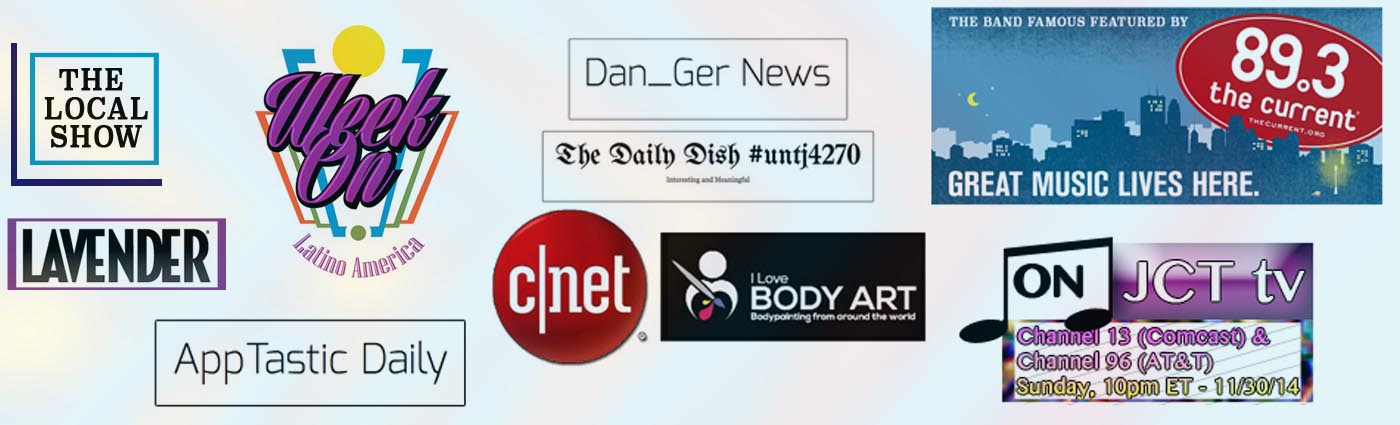
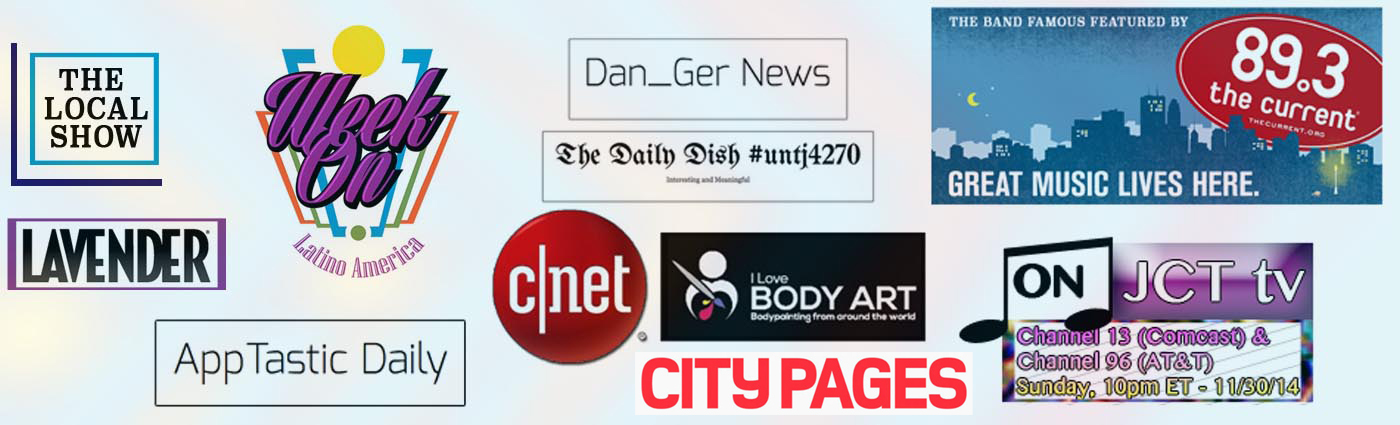
Everywhere

Changed region(s): [[0.4607, 0.8259, 0.7064, 0.9788]]

diff --git a/epk.html b/epk.html
@@ -95,9 +95,12 @@
     <div style="width: 80%; height: auto; background:white;">
       <br>
 
+      <!--
       <p style="text-shadow: none; color: black;">"Lazer Eyes" - a tribute to Prince and a single off our upcoming 2nd album <i>Awakening</i> - is available now. <br> This track is not for sale, but is free to stream exclusively on TBF Radio, along with a kid-friendly music video on YouTube.</p>
       <p style="text-shadow: none; color: black;">"Promises" - a single off our upcoming 2nd album <i>Awakening</i> - is available everywhere.</p>
       <p style="text-shadow: none; color: black;">Get our debut album <i>Last Words</i> FREE on the <a href="https://itunes.apple.com/us/app/the-band-famous/id879979539?mt=8" target="_blank">iPhone App Store</a> or <a href="https://play.google.com/store/apps/details?id=com.bandfamous.famous" target="_blank">Android Google Play</a>!</p>
+
+      -->
 
           <!--[if mso]>
         <td valign="top" width="600" style="width:600px;">
@@ -129,7 +132,8 @@
                 </tr>
                 <tr>
                   <td class="mcnTextContent" valign="top" style="padding: 9px 18px;color: #F2F2F2;font-family: Helvetica;font-size: 14px;font-weight: normal;text-align: center;mso-line-height-rule: exactly;-ms-text-size-adjust: 100%;-webkit-text-size-adjust: 100%;word-break: break-word;line-height: 150%;" width="546">
-                    <a href="radio.html" title="Check Out TBF Radio"><div style="text-align: left;"><p style="text-shadow:none; margin: 2px; color:white;">TBF is now&nbsp;streaming some never-before-heard "B-Tracks", songs which didn't make our debut album, or our 2nd album in the works. Head over to the Music tab where you may also enjoy songs by select artists featured in the Hall Of Fame, available for your free listening pleasure 24/7 - 365 days a year via&nbsp;TBF <em>Radio</em>.</p></div></a>
+                    <a href="radio.html" title="Check Out TBF Radio"><div style="text-align: left;"><p style="text-shadow:none; margin: 2px; color:white;">TBF is now&nbsp;streaming some never-before-heard "B-Tracks", songs which didn't make our debut album, or our 2nd album in the works. Head over to the Music tab where you may also enjoy songs by select artists featured in the Hall Of Fame, available for your free listening pleasure 24/7 - 365 days a year via&nbsp;TBF <em>Radio</em>.<br>
+                    We are not a label. We are musicians who share musicians we like because we care. We have their permission to feature and promote them indefintely on our own platform. We also have produced and showcased  and perform benefit shows with select artists in the Hall Of Fame.</p></div></a>
 
                 </td>
               </tr>
@@ -146,6 +150,16 @@
                   <table border="0" cellpadding="0" cellspacing="0" width="100%" class="templateContainer" style="border-collapse: collapse;mso-table-lspace: 0pt;mso-table-rspace: 0pt;-ms-text-size-adjust: 100%;-webkit-text-size-adjust: 100%;max-width: 800px !important;">
                     <tbody><tr>
                         <td valign="top" style="mso-line-height-rule: exactly;-ms-text-size-adjust: 100%;-webkit-text-size-adjust: 100%;">
+
+                                            
+                        <p style="text-shadow:none;">Check out the latest self-produced music video by The Band Famous, "Emotional Scatter", premiered by City Pages Music:</p>
+
+                        <a href="http://www.citypages.com/music/gnome-butts-isolation-rituals-and-tijuana-drug-deals-in-this-weeks-top-5-mn-music-videos/563566641" title="Check it out!" class="" target="_blank" style="mso-line-height-rule: exactly;-ms-text-size-adjust: 100%;-webkit-text-size-adjust: 100%;">
+                                  
+
+                        <img alt="Emotional Scatter" src="img/maxresdefaultEmotionalScatter.jpg" width="100%" style="max-width: 944px;border: 0;height: auto;outline: none;text-decoration: none;-ms-interpolation-mode: bicubic;vertical-align: bottom;" class="mcnImage">
+                        </a>
+                          
                         <!--[if gte mso 9]>
                         <table align="center" border="0" cellspacing="0" cellpadding="0" width="600" style="width:600px;">
                         <tr>
@@ -313,44 +327,84 @@ Shop TBF!</p>
     <p style="text-align: center;"><span style="font-style: italic; vertical-align: baseline; white-space: pre-wrap; font-size:20px;">&ldquo;The more I read, the more surprised I was&hellip; They came together a couple of years ago in MN, they were all here in MN, and they all play music, they all make art, they also are all software developers&hellip; &nbsp;and actually some of the music from that initial jam session went on their debut EP &lsquo;Last Words&rsquo; which was released - wait for it - not on vinyl or via iTunes or any of the conventional ways of releasing music, but via an app - because they&rsquo;re all software developers, right? They made an interactive app by which they released their album&hellip;..It&rsquo;s dreamy, it&rsquo;s spacey&hellip;. I think people&hellip; will find a lot to enjoy, a lot of familiar, and ambient sounds&hellip; the whole thing is improvised by the way, all of their music to date has been entirely improvised&hellip;&rdquo; </span></p>
     <p style="text-align: center;"><span style="vertical-align: baseline; white-space: pre-wrap;">&nbsp;</span></p>
     <p style="text-align: center;"><span style="vertical-align: baseline; white-space: pre-wrap;"><i>Awakening</i></span><span style="vertical-align: baseline; white-space: pre-wrap;"> is their most focused and steadfast material yet!</span></p>
-<!-- Lazer Eyes -->
+    <br>
+    <!-- Jerard Fagerberg, City Pages Local Frames -->
+
+
+    <p style="text-align: center;"><span style="font-weight: bold; vertical-align: baseline; white-space: pre-wrap;">Writer Jerard Fagerberg of City Pages, says:</span></p>
+    <br>
+    <p style="text-align: center;"><span style="font-style: italic; vertical-align: baseline; white-space: pre-wrap; font-size:20px;"><b>The Band Famous – “Emotional Scatter” (PREMIERE)</b><br>&ldquo;Self-produced trip-hop group the Band Famous exist to uplift you, even if they sound a bit wacky when they do. They may not be self-actualized enough to dispense good advice, but their new single “Emotional Scatter” tries, dammit. Directed by TBF members Norell and Zander, the video tries to play motivational speaker, but when the band mixes in goofy lyrics and a mooning gnome toy, it’s hard to take them totally seriously. Which might be the point: Stop taking yourself so seriously and enjoy the jam. TBF will be performing their new record Awakening in full on November 30. Follow them on social media to get the deets on the location and the streaming info.</span>
+    <p style="text-align: center;"><span style="vertical-align: baseline; white-space: pre-wrap;">&nbsp;</span></p>
+    <p style="text-align: center;"><span style="vertical-align: baseline; white-space: pre-wrap;"></span><span style="vertical-align: baseline; white-space: pre-wrap;"></span></p>
+
+
+    <!-- Buy "Emotional Scatter" on iTunes, Google Play, and Amazon -->
+
+    <p style="font-size: 17px; width: 70%; margin-top:10px; text-shadow: none; color: black;">Purchase or Stream TBF's Single "Emotional Scatter", from the upcoming 2nd album, <i>Awakening</i>.</p>
+    <br>
+
+    <span><a href="https://www.youtube.com/watch?v=ZhRKBL8oKJ4" target="_blank" title="Check out the music video self-directed and produced by The Band Famous, 'Emotional Scatter'"><img src="img/Emotional Scatter.jpg" style="max-height: 120px; max-width:120px; width: 10%; vertical-align: center; margin-top: -20px; margin-bottom: -20px;" alt="Listen to the new single by The Band Famous, 'Emotional Scatter', now playing on TBF Radio."/>:</a></span>
+    <!-- Buy "Emotional Scatter" on iTunes, Google Play, and Amazon -->
+         
+             
+                    
+    <!--<span><a href="radio.html" target="_blank" title="Listen to Emotional Scatter on TBF Radio for free!"><img src="img/tbfradio.png" style="max-height: 93px; width: 6.5%; vertical-align: center; margin-top: -20px; margin-bottom: -20px; box-shadow: none;" alt="Listen to Emotional Scatter on TBF Radio for free!"/></a></span>-->
+    <span><a href="https://music.apple.com/us/album/emotional-scatter-single/1482306594" title="TBF's 'Emotional Scatter' Available on iTunes Apple Music!" target="_blank"><img src="img/shop/apple-music.png" style="max-height: 120px; max-width:120px; width: 10%; vertical-align: center; margin-top: -70px; margin-bottom: -20px;" alt="Buy The Band Famous new single 'Emotional Scatter' on iTunes Apple Music today!"/></a></span>
+    <span><a href="https://www.shazam.com/track/498779585/emotional-scatter" title="TBF's 'Emotional Scatter' now on Shazam!"><img src="img/shop/shazam.png" style="max-height: 120px; max-width:120px; width: 10%; margin-top: -20px; vertical-align: center; margin-bottom: -20px;" alt="Listen to The Band Famous new single 'Emotional Scatter' on Shazam today!"/></a></span>
+    <span><a href="https://open.spotify.com/album/08YnxrBVS04YYpJQ7cqKHn"  title="TBF's Emotional Scatter' Coming Soon to Spotify!" target="_blank"><img src="img/shop/spotify.png" style="max-height: 120px; max-width:120px; width: 10%;   margin-top: -20px; vertical-align: center; margin-bottom: -20px;" alt="Listen to The Band Famous new single 'Emotional Scatter' on Spotify today!"/></a></span>
+    <span><a href="https://www.amazon.com/dp/B07Z2VSW5J/ref=cm_sw_r_tw_dp_U_x_f8rQDb2H3JQRY"  title="TBF's 'Emotional Scatter' Available on Amazon!" target="_blank"><img src="img/shop/amazon.png" style="max-height: 108px; max-width: 108px; width: 9%; margin-top: -70px; vertical-align: center; margin-bottom: -17px;" alt="Buy The Band Famous new single 'Emotional Scatter' on Amazon today!"/></a></span>
+    <span><a href="https://play.google.com/music/m/Tcvllr43kdkwda2iccp2rki3bsi?t=Emotional_Scatter_-_The_Band_Famous"  title="TBF's 'Emotional Scatter' on Google Play!" target="_blank"><img src="img/shop/google-play.png" style="max-height: 108px; max-width: 108px; width: 9%;  margin-top: -15px; vertical-align: center; margin-bottom: -16px;" alt="Buy The Band Famous new single 'Emotional Scatter' on Google Play today!"/></a></span>
+    <span><a href="https://youtu.be/ZhRKBL8oKJ4" title="View the official music video for TBF's 'Emotional Scatter' on YouTube - don't forget to like, comment, and subscribe!" target="_blank"><img src="img/shop/youtube.png" style="max-height: 110px; max-width: 110px; width: 10%;  margin-top: -20px; vertical-align: center; margin-bottom: -20px;" alt="Watch the Official Music Video and Listen to The Band Famous new single 'Emotional Scatter' on YouTube today!"/></a></span>
+    <br>
+    <br>
+    <center><img src="img/events/unity.png" alt="Gratitude" style="width: 90%; min-width: 250px; height: auto; vertical-align: center; margin-top: 4px;"/></center>
+
+
+    <!-- Lazer Eyes -->
         <p style="text-align: center;"><span style="vertical-align: baseline; white-space: pre-wrap;"><span style="vertical-align: baseline; white-space: pre-wrap;">TBF released &ldquo;Lazer Eyes&rdquo; free as a tribute to musical inspiration and legend, Prince Rogers Nelson on his birthday, June 7th, 2017. Now available from </span><em>Awakening,</em><span style="text-align: start; white-space: normal;">&nbsp;<br><br>&ldquo;Lazer Eyes&rdquo; is out now:</span></span></p>
 
     <!-- Listen to "Lazer Eyes" on TBF Radio and on our YouTube  -->
       <p style="font-size: 22px; width: 70%; margin-top:10px; text-shadow: none; color: white; margin-bottom:-15px;">Listen to TBF's Single <i>Lazer Eyes</i> Now!</p>
+
+      <span><a href="https://www.youtube.com/watch?v=4Yng26YzsrA" target="_blank" title="Check out the music video self-directed and produced by The Band Famous, 'Lazer Eyes'"><img src="img/LazerEyes.jpg" style="max-height: 120px; max-width:120px; width: 10%; vertical-align: center; margin-top: -20px; margin-bottom: -20px;" alt="Check out 'Lazer Eyes'"/>:</a></span>
       <span><a href="radio.html" target="_blank" title="Listen to TBF's 'Lazer Eyes' on TBF Radio"><img src="img/tbfradio.png" style="max-height: 110px; width: 10%; vertical-align: center; margin-top: -70px; margin-bottom: -20px;" alt="Listen to The Band Famous new single 'Lazer Eyes' on TBF Radio today!"/></a></span>
       <span><a href="https://youtu.be/4Yng26YzsrA" target="_blank" title="Listen to TBF's 'Lazer Eyes' on YouTube - don't forget to like, comment, and subscribe!"><img src="img/shop/youtube.png" style="max-height: 110px; width: 10%;  margin-top: -20px; vertical-align: center; margin-bottom: -20px;" alt="Listen to The Band Famous new single 'Lazer Eyes' on YouTube today!"/></a></span>
 
       <br>
       <br>
+      <center><img src="img/events/unity.png" alt="Gratitude" style="width: 90%; min-width: 250px; height: auto; vertical-align: center; margin-top: 4px;"/></center>
 
     <p style="text-align: center;"><span style="vertical-align: baseline; white-space: pre-wrap;"><span style="vertical-align: baseline; white-space: pre-wrap;">TBF&rsquo;s first official commercial release, from their upcoming 2nd album&nbsp;</span><em>Awakening,</em> <span style="text-align: start; white-space: normal;">&nbsp;<br><br>&ldquo;Promises&rdquo; - please be advised the music video for "Promises" is intended for mature audiences - is out now:</span></span></p>
     <br>
     <!-- Buy "Promises" on iTunes, Google Play, and Amazon -->
       <p style="font-size: 22px; width: 70%; margin-top:10px; text-shadow: none; color: white; margin-bottom:-15px;">Buy TBF's Single <i>Promises</i> Now!</p>
 
-  
+        <span><a href="https://www.youtube.com/watch?v=1s_RU05AqjA" target="_blank" title="Check out the music video self-directed and produced by The Band Famous, 'Promises' (Disclaimer: NSFW)"><img src="img/promises.jpg" style="max-height: 120px; max-width:120px; width: 10%; vertical-align: center; margin-top: -20px; margin-bottom: -20px;" alt="Check out 'Promises' (Disclaimer: NSFW)"/>:</a></span>
         <span><a href="https://itunes.apple.com/us/album/promises-single/id1129163577" target="_blank" title="Buy TBF's 'Promises' on iTunes Apple Music!"><img src="img/shop/apple-music.png" style="max-height: 120px; width: 10%; vertical-align: center; margin-top: -70px; margin-bottom: -20px;" alt="Buy The Band Famous new single 'Promises' on iTunes Apple Music today!"/></a></span>
-        <span><a href="http://www.shazam.com/track/322767260/promises#referrer=shz.am" target="_blank" title="Listen to TBF's 'Promises' on Shazam!"><img src="img/shop/shazam.png" style="max-height: 120px; width: 10%; margin-top: -20px; vertical-align: center; margin-bottom: -20px;" alt="Listen to The Band Famous new single 'Promises' on Shazam today!"/></a></span>
+        <span><a href="hhttp://www.shazam.com/track/322767260/promises#referrer=shz.am" target="_blank" title="Listen to TBF's 'Promises' on Shazam!"><img src="img/shop/shazam.png" style="max-height: 120px; width: 10%; margin-top: -20px; vertical-align: center; margin-bottom: -20px;" alt="Listen to The Band Famous new single 'Promises' on Shazam today!"/></a></span>
         <span><a href="https://play.spotify.com/artist/4Rjo7MM8sHnXPY5DyVTYiZ?play=true&utm_source=open.spotify.com&utm_medium=open" target="_blank" title="Listen to TBF's 'Promises' on Spotify!"><img src="img/shop/spotify.png" style="max-height: 120px; width: 10%;   margin-top: -20px; vertical-align: center; margin-bottom: -20px;" alt="Listen to The Band Famous new single 'Promises' on Spotify today!"/></a></span>
         <span><a href="https://www.amazon.com/Promises/dp/B01HTQ4UP8/ref=sr_1_3?ie=UTF8&qid=1467681013&sr=8-3&keywords=the+band+famous+promises" target="_blank" title="Buy TBF's 'Promises' on Amazon!"><img src="img/shop/amazon.png" style="max-height: 110px; width: 9%; margin-top: -70px; vertical-align: center; margin-bottom: -17px;" alt="Buy The Band Famous new single 'Promises' on Amazon today!"/></a></span>
         <span><a href="https://play.google.com/store/music/album?id=Bwbcxviuja4jvis2455woka46sa" target="_blank" title="Buy TBF's 'Promises' on Google Play!"><img src="img/shop/google-play.png" style="max-height: 110px; width: 9%;  margin-top: -15px; vertical-align: center; margin-bottom: -16px;" alt="Buy The Band Famous new single 'Promises' on Google Play today!"/></a></span>
         <span><a href="https://www.youtube.com/watch?v=1s_RU05AqjA" target="_blank" title="Listen to TBF's 'Promises' on YouTube - don't forget to like, comment, and subscribe!"><img src="img/shop/youtube.png" style="max-height: 110px; width: 10%;  margin-top: -20px; vertical-align: center; margin-bottom: -20px;" alt="Listen to The Band Famous new single 'Promises' on YouTube today!"/></a></span>
         <br>
         <br>
-
-      <br>
   </article>
+    <p><iframe width="80%" height="315" src="https://www.youtube-nocookie.com/embed/ZhRKBL8oKJ4" frameborder="0" allowfullscreen></iframe></p>
     <p><iframe width="80%" height="315" src="https://www.youtube-nocookie.com/embed/4Yng26YzsrA" frameborder="0" allowfullscreen></iframe></p>
-    <p><iframe frameborder="0" height="315" src="https://www.youtube.com/embed/1s_RU05AqjA" width="80%"></iframe></p>
-    <p><iframe frameborder="0" height="315" src="https://www.youtube.com/embed/4iVrlY-ap98" width="80%"></iframe></p>
+    <p><iframe frameborder="0" height="315" src="https://www.youtube-nocookie.com/embed/1s_RU05AqjA" width="80%"></iframe></p>
+    <p><iframe frameborder="0" height="315" src="https://www.youtube-nocookie.com/embed/4iVrlY-ap98" width="80%"></iframe></p>
     <p style="line-height: 19.6px;"><span style="line-height: 1.4;"><iframe frameborder="no" width="80%" height="385" scrolling="no" src="https://w.soundcloud.com/player/?url=https%3A//api.soundcloud.com/playlists/134366596&amp;color=ff5500&amp;auto_play=false&amp;hide_related=false&amp;show_comments=true&amp;show_user=true&amp;show_reposts=false" width="100%"></iframe></span></p>
 
     <article id="epk">
+      <center><img src="img/press/press.jpg" style="width: 80%; height:auto; margin-top: -20px; margin-bottom: 20px; box-shadow: 8px 8px 5px #888888;"/></center>
 
-    <div class="page_object_press_item" style=" margin: 0px; padding: 0px 0px 20px; border: 0px; outline: 0px; font-size: 14px; vertical-align: baseline; color: #333333; font-family: Roboto, Helvetica, Arial, sans-serif; line-height: 18px; background: transparent;">
-    <p><span style="background-color: transparent; font-weight: bold;">&ldquo;&hellip; you give a more intimate experience to the fans&rdquo;</span></p>
-    <div class="press_item_author" style="margin: 0px; padding: 0px 0px 0px 20px; border: 0px; outline: 0px; vertical-align: baseline; font-style: italic; background: transparent;"><a href="http://www.appmasters.co/the-band-famous/" target="_blank" style="margin: 0px; padding: 0px; vertical-align: baseline; color: #2c9ce9; text-decoration: none; cursor: pointer; background: transparent;">Steve Young, Lakshmi Parvathy - App Masters</a></div>
+   <div class="page_object_press_item" style=" margin: 7px; padding: 0px 0px 20px; border: 0px; outline: 0px; font-size: 14px; vertical-align: baseline; color: #333333; font-family: Roboto, Helvetica, Arial, sans-serif; line-height: 18px; background: transparent;">
+    <p style="margin: 0px; padding: 0px; border: 0px; outline: 0px; vertical-align: baseline; font-weight: bold; background: transparent;">&ldquo;Self-produced trip-hop group the Band Famous exist to uplift you, even if they sound a bit wacky when they do. They may not be self-actualized enough to dispense good advice, but their new single “Emotional Scatter” tries, dammit. Directed by TBF members Norell and Zander, the video tries to play motivational speaker, but when the band mixes in goofy lyrics and a mooning gnome toy, it’s hard to take them totally seriously. Which might be the point: Stop taking yourself so seriously and enjoy the jam.&rdquo;</p>
+    <div class="press_item_author" style="margin: 7px; padding: 0px 0px 0px 20px; border: 0px; outline: 0px; vertical-align: baseline; font-style: italic; background: transparent;"><a href="http://www.citypages.com/music/gnome-butts-isolation-rituals-and-tijuana-drug-deals-in-this-weeks-top-5-mn-music-videos/563566641" target="_blank" style="margin: 7px; padding: 0px; vertical-align: baseline; color: #2c9ce9; text-decoration: none; cursor: pointer; background: transparent;">Jerard Fagerberg - City Pages</a></div>
+    <br>
+    <div class="page_object_press_item" style=" margin: 7px; padding: 0px 0px 20px; border: 0px; outline: 0px; font-size: 14px; vertical-align: baseline; color: #333333; font-family: Roboto, Helvetica, Arial, sans-serif; line-height: 18px; background: transparent;">
+    <p style="margin: 0px; padding: 0px; border: 0px; outline: 0px; vertical-align: baseline; font-weight: bold; background: transparent;">&ldquo;&hellip; you give a more intimate experience to the fans&rdquo;</p>
+    <div class="press_item_author" style="margin: 7px; padding: 0px 0px 0px 20px; border: 0px; outline: 0px; vertical-align: baseline; font-style: italic; background: transparent;"><a href="http://www.appmasters.co/the-band-famous/" target="_blank" style="margin: 0px; padding: 0px; vertical-align: baseline; color: #2c9ce9; text-decoration: none; cursor: pointer; background: transparent;">Steve Young, Lakshmi Parvathy - App Masters</a></div>
     </div>
     <div class="page_object_press_item" style="margin: 7px; padding: 0px 0px 20px; border: 0px; outline: 0px; font-size: 14px; vertical-align: baseline; color: #333333; font-family: Roboto, Helvetica, Arial, sans-serif; line-height: 18px; background: transparent;">
     <p style="margin: 0px; padding: 0px; border: 0px; outline: 0px; vertical-align: baseline; font-weight: bold; background: transparent;">&ldquo;Their art is now gaining traction nationwide&hellip;This spring, TBF performed on the Tom Green Show and other L.A.-based podcasts, following the fall Android release of their album, Last Words. Their second album, Awakening, is being released soon.&rdquo;</p>

diff --git a/bio.html b/bio.html
@@ -190,9 +190,10 @@
                     <tbody><tr>
                         <td valign="top" style="mso-line-height-rule: exactly;-ms-text-size-adjust: 100%;-webkit-text-size-adjust: 100%;">
 
-                        <p style="text-shadow:none;">Check out the latest self-produced music video by The Band Famous, "Emotional Scatter":</p>
 
-                        <a href="https://www.youtube.com/watch?v=ZhRKBL8oKJ4" title="Watch Now!" class="" target="_blank" style="mso-line-height-rule: exactly;-ms-text-size-adjust: 100%;-webkit-text-size-adjust: 100%;">
+                        <p style="text-shadow:none;">Check out the latest self-produced music video by The Band Famous, "Emotional Scatter", premiered by City Pages Music:</p>
+
+                        <a href="http://www.citypages.com/music/gnome-butts-isolation-rituals-and-tijuana-drug-deals-in-this-weeks-top-5-mn-music-videos/563566641" title="Check it out!" class="" target="_blank" style="mso-line-height-rule: exactly;-ms-text-size-adjust: 100%;-webkit-text-size-adjust: 100%;">
                 
 
                         <img alt="Emotional Scatter" src="img/maxresdefaultEmotionalScatter.jpg" width="100%" style="max-width: 944px;border: 0;height: auto;outline: none;text-decoration: none;-ms-interpolation-mode: bicubic;vertical-align: bottom;" class="mcnImage">
@@ -368,8 +369,16 @@ Shop TBF!</p>
     <p style="text-align: center;"><span style="vertical-align: baseline; white-space: pre-wrap;">&nbsp;</span></p>
     <p style="text-align: center;"><span style="vertical-align: baseline; white-space: pre-wrap;"><i>Awakening</i></span><span style="vertical-align: baseline; white-space: pre-wrap;"> is their most focused and steadfast material yet!</span></p>
 
-    <!-- Jerard Fagerberg, City Pages Local Frames -->
 
+
+    <!--
+    <a href="http://www.citypages.com/music/gnome-butts-isolation-rituals-and-tijuana-drug-deals-in-this-weeks-top-5-mn-music-videos/563566641" target="_blank"><img src="img/press/CityPagesMusic.jpeg" alt="City Pages" title="Check out the premiere on City Pages" style="width: 100%; min-width: 180px; height:auto; margin-bottom:30px;"/></a>
+    <a href="http://www.citypages.com/music/gnome-butts-isolation-rituals-and-tijuana-drug-deals-in-this-weeks-top-5-mn-music-videos/563566641" target="_blank"><img src="img/press/CityPagesLocalFrames.jpeg" alt="City Pages" title="Check out the premiere on City Pages" style="width: 100%; min-width: 180px; height:auto; margin-bottom:30px;"/></a>
+    -->
+
+    <br>
+
+    <!-- Jerard Fagerberg, City Pages Local Frames -->
 
 
     <p style="text-align: center;"><span style="font-weight: bold; vertical-align: baseline; white-space: pre-wrap;">Writer Jerard Fagerberg of City Pages, says:</span></p>
@@ -377,10 +386,6 @@ Shop TBF!</p>
     <p style="text-align: center;"><span style="font-style: italic; vertical-align: baseline; white-space: pre-wrap; font-size:20px;"><b>The Band Famous – “Emotional Scatter” (PREMIERE)</b><br>&ldquo;Self-produced trip-hop group the Band Famous exist to uplift you, even if they sound a bit wacky when they do. They may not be self-actualized enough to dispense good advice, but their new single “Emotional Scatter” tries, dammit. Directed by TBF members Norell and Zander, the video tries to play motivational speaker, but when the band mixes in goofy lyrics and a mooning gnome toy, it’s hard to take them totally seriously. Which might be the point: Stop taking yourself so seriously and enjoy the jam. TBF will be performing their new record Awakening in full on November 30. Follow them on social media to get the deets on the location and the streaming info.</span>
     <p style="text-align: center;"><span style="vertical-align: baseline; white-space: pre-wrap;">&nbsp;</span></p>
     <p style="text-align: center;"><span style="vertical-align: baseline; white-space: pre-wrap;"></span><span style="vertical-align: baseline; white-space: pre-wrap;"></span></p>
-
-
-    <a href="http://www.citypages.com/music/gnome-butts-isolation-rituals-and-tijuana-drug-deals-in-this-weeks-top-5-mn-music-videos/563566641" target="_blank"><img src="img/press/CityPagesMusic.jpeg" alt="City Pages" title="Check out the premiere on City Pages" style="width: 100%; min-width: 180px; height:auto; margin-bottom:30px;"/></a>
-    <a href="http://www.citypages.com/music/gnome-butts-isolation-rituals-and-tijuana-drug-deals-in-this-weeks-top-5-mn-music-videos/563566641" target="_blank"><img src="img/press/CityPagesLocalFrames.jpeg" alt="City Pages" title="Check out the premiere on City Pages" style="width: 100%; min-width: 180px; height:auto; margin-bottom:30px;"/></a>
 
 
     <!-- Buy "Emotional Scatter" on iTunes, Google Play, and Amazon -->
@@ -437,18 +442,21 @@ Shop TBF!</p>
   </article>
     <p><iframe width="80%" height="315" src="https://www.youtube-nocookie.com/embed/ZhRKBL8oKJ4" frameborder="0" allowfullscreen></iframe></p>
     <p><iframe width="80%" height="315" src="https://www.youtube-nocookie.com/embed/4Yng26YzsrA" frameborder="0" allowfullscreen></iframe></p>
-    <p><iframe frameborder="0" height="315" src="https://www.youtube.com/embed/1s_RU05AqjA" width="80%"></iframe></p>
-    <p><iframe frameborder="0" height="315" src="https://www.youtube.com/embed/4iVrlY-ap98" width="80%"></iframe></p>
+    <p><iframe frameborder="0" height="315" src="https://www.youtube-nocookie.com/embed/1s_RU05AqjA" width="80%"></iframe></p>
+    <p><iframe frameborder="0" height="315" src="https://www.youtube-nocookie.com/embed/4iVrlY-ap98" width="80%"></iframe></p>
     <p style="line-height: 19.6px;"><span style="line-height: 1.4;"><iframe frameborder="no" width="80%" height="385" scrolling="no" src="https://w.soundcloud.com/player/?url=https%3A//api.soundcloud.com/playlists/134366596&amp;color=ff5500&amp;auto_play=false&amp;hide_related=false&amp;show_comments=true&amp;show_user=true&amp;show_reposts=false" width="100%"></iframe></span></p>
 
     <article id="epk">
 
     <center><img src="img/press/press.jpg" style="width: 80%; height:auto; margin-top: -20px; margin-bottom: 20px; box-shadow: 8px 8px 5px #888888;"/></center>
 
-
-    <div class="page_object_press_item" style=" margin: 0px; padding: 0px 0px 20px; border: 0px; outline: 0px; font-size: 14px; vertical-align: baseline; color: #333333; font-family: Roboto, Helvetica, Arial, sans-serif; line-height: 18px; background: transparent;">
-    <p><span style="background-color: transparent; font-weight: bold;">&ldquo;&hellip; you give a more intimate experience to the fans&rdquo;</span></p>
-    <div class="press_item_author" style="margin: 0px; padding: 0px 0px 0px 20px; border: 0px; outline: 0px; vertical-align: baseline; font-style: italic; background: transparent;"><a href="http://www.appmasters.co/the-band-famous/" target="_blank" style="margin: 0px; padding: 0px; vertical-align: baseline; color: #2c9ce9; text-decoration: none; cursor: pointer; background: transparent;">Steve Young, Lakshmi Parvathy - App Masters</a></div>
+    <div class="page_object_press_item" style=" margin: 7px; padding: 0px 0px 20px; border: 0px; outline: 0px; font-size: 14px; vertical-align: baseline; color: #333333; font-family: Roboto, Helvetica, Arial, sans-serif; line-height: 18px; background: transparent;">
+    <p style="margin: 0px; padding: 0px; border: 0px; outline: 0px; vertical-align: baseline; font-weight: bold; background: transparent;">&ldquo;Self-produced trip-hop group the Band Famous exist to uplift you, even if they sound a bit wacky when they do. They may not be self-actualized enough to dispense good advice, but their new single “Emotional Scatter” tries, dammit. Directed by TBF members Norell and Zander, the video tries to play motivational speaker, but when the band mixes in goofy lyrics and a mooning gnome toy, it’s hard to take them totally seriously. Which might be the point: Stop taking yourself so seriously and enjoy the jam.&rdquo;</p>
+    <div class="press_item_author" style="margin: 7px; padding: 0px 0px 0px 20px; border: 0px; outline: 0px; vertical-align: baseline; font-style: italic; background: transparent;"><a href="http://www.citypages.com/music/gnome-butts-isolation-rituals-and-tijuana-drug-deals-in-this-weeks-top-5-mn-music-videos/563566641" target="_blank" style="margin: 7px; padding: 0px; vertical-align: baseline; color: #2c9ce9; text-decoration: none; cursor: pointer; background: transparent;">Jerard Fagerberg - City Pages</a></div>
+    <br>
+    <div class="page_object_press_item" style=" margin: 7px; padding: 0px 0px 20px; border: 0px; outline: 0px; font-size: 14px; vertical-align: baseline; color: #333333; font-family: Roboto, Helvetica, Arial, sans-serif; line-height: 18px; background: transparent;">
+    <p style="margin: 0px; padding: 0px; border: 0px; outline: 0px; vertical-align: baseline; font-weight: bold; background: transparent;">&ldquo;&hellip; you give a more intimate experience to the fans&rdquo;</p>
+    <div class="press_item_author" style="margin: 7px; padding: 0px 0px 0px 20px; border: 0px; outline: 0px; vertical-align: baseline; font-style: italic; background: transparent;"><a href="http://www.appmasters.co/the-band-famous/" target="_blank" style="margin: 0px; padding: 0px; vertical-align: baseline; color: #2c9ce9; text-decoration: none; cursor: pointer; background: transparent;">Steve Young, Lakshmi Parvathy - App Masters</a></div>
     </div>
     <div class="page_object_press_item" style="margin: 7px; padding: 0px 0px 20px; border: 0px; outline: 0px; font-size: 14px; vertical-align: baseline; color: #333333; font-family: Roboto, Helvetica, Arial, sans-serif; line-height: 18px; background: transparent;">
     <p style="margin: 0px; padding: 0px; border: 0px; outline: 0px; vertical-align: baseline; font-weight: bold; background: transparent;">&ldquo;Their art is now gaining traction nationwide&hellip;This spring, TBF was on the Tom Green Show and other L.A.-based podcasts, following the fall Android release of their album, Last Words. Their second album, Awakening, is being released soon.&rdquo;</p>

diff --git a/mobile/index.html b/mobile/index.html
@@ -3910,13 +3910,13 @@
                                   <tbody><tr>
                                       <td valign="top" style="mso-line-height-rule: exactly;-ms-text-size-adjust: 100%;-webkit-text-size-adjust: 100%;">
 
-                        <p style="text-shadow:none;">Check out the latest self-produced music video by The Band Famous, "Emotional Scatter":</p>
+                                      <p style="text-shadow:none;">Check out the latest self-produced music video by The Band Famous, "Emotional Scatter", premiered by City Pages Music:</p>
 
-                        <a href="https://www.youtube.com/watch?v=ZhRKBL8oKJ4" title="Watch Now!" class="" target="_blank" style="mso-line-height-rule: exactly;-ms-text-size-adjust: 100%;-webkit-text-size-adjust: 100%;">
-                
+                                      <a href="http://www.citypages.com/music/gnome-butts-isolation-rituals-and-tijuana-drug-deals-in-this-weeks-top-5-mn-music-videos/563566641" title="Check it out!" class="" target="_blank" style="mso-line-height-rule: exactly;-ms-text-size-adjust: 100%;-webkit-text-size-adjust: 100%;">
+                              
 
-                        <img alt="Emotional Scatter" src="img/maxresdefaultEmotionalScatter.jpg" width="90%" style="max-width: 944px;border: 0;height: auto;outline: none;text-decoration: none;-ms-interpolation-mode: bicubic;vertical-align: bottom;" class="mcnImage">
-                        </a>
+                                      <img alt="Emotional Scatter" src="img/maxresdefaultEmotionalScatter.jpg" width="90%" style="max-width: 944px;border: 0;height: auto;outline: none;text-decoration: none;-ms-interpolation-mode: bicubic;vertical-align: bottom;" class="mcnImage">
+                                      </a>
 
 
                                       <!--[if gte mso 9]>
@@ -4098,8 +4098,10 @@
                 <p style="text-align: center;"><span style="vertical-align: baseline; white-space: pre-wrap;"></span><span style="vertical-align: baseline; white-space: pre-wrap;"></span></p>
 
 
+<!--
                 <a href="http://www.citypages.com/music/gnome-butts-isolation-rituals-and-tijuana-drug-deals-in-this-weeks-top-5-mn-music-videos/563566641" target="_blank"><img src="img/press/CityPagesMusic.jpeg" alt="City Pages" title="Check out the premiere on City Pages" style="width: 100%; min-width: 180px; height:auto; margin-bottom:30px; margin-top: -20px;"/></a>
                 <a href="http://www.citypages.com/music/gnome-butts-isolation-rituals-and-tijuana-drug-deals-in-this-weeks-top-5-mn-music-videos/563566641" target="_blank"><img src="img/press/CityPagesLocalFrames.jpeg" alt="City Pages" title="Check out the premiere on City Pages" style="width: 100%; min-width: 180px; height:auto; margin-bottom:30px;"/></a>
+              -->
 
 
                 <!-- Buy "Emotional Scatter" on iTunes, Google Play, and Amazon -->
@@ -4167,9 +4169,13 @@
                   <center><img src="img/press/press.jpg" style="width: 90%; height:auto; margin-top: -20px; margin-bottom: 20px; box-shadow: 8px 8px 5px #888888;"/></center>
 
 
-                  <div class="page_object_press_item" style=" margin: 0px; padding: 0px 0px 20px; border: 0px; outline: 0px; font-size: 14px; vertical-align: baseline; color: #333333; font-family: Roboto, Helvetica, Arial, sans-serif; line-height: 18px; background: transparent;">
-                  <p><span style="background-color: transparent; font-weight: bold;">&ldquo;&hellip; you give a more intimate experience to the fans&rdquo;</span></p>
-                  <div class="press_item_author" style="margin: 0px; padding: 0px 0px 0px 20px; border: 0px; outline: 0px; vertical-align: baseline; font-style: italic; background: transparent;"><a href="http://www.appmasters.co/the-band-famous/" target="_blank" style="margin: 0px; padding: 0px; vertical-align: baseline; color: #2c9ce9; text-decoration: none; cursor: pointer; background: transparent;">Steve Young, Lakshmi Parvathy - App Masters</a></div>
+                  <div class="page_object_press_item" style=" margin: 7px; padding: 0px 0px 20px; border: 0px; outline: 0px; font-size: 14px; vertical-align: baseline; color: #333333; font-family: Roboto, Helvetica, Arial, sans-serif; line-height: 18px; background: transparent;">
+                  <p style="margin: 0px; padding: 0px; border: 0px; outline: 0px; vertical-align: baseline; font-weight: bold; background: transparent;">&ldquo;Self-produced trip-hop group the Band Famous exist to uplift you, even if they sound a bit wacky when they do. They may not be self-actualized enough to dispense good advice, but their new single “Emotional Scatter” tries, dammit. Directed by TBF members Norell and Zander, the video tries to play motivational speaker, but when the band mixes in goofy lyrics and a mooning gnome toy, it’s hard to take them totally seriously. Which might be the point: Stop taking yourself so seriously and enjoy the jam.&rdquo;</p>
+                  <div class="press_item_author" style="margin: 7px; padding: 0px 0px 0px 20px; border: 0px; outline: 0px; vertical-align: baseline; font-style: italic; background: transparent;"><a href="http://www.citypages.com/music/gnome-butts-isolation-rituals-and-tijuana-drug-deals-in-this-weeks-top-5-mn-music-videos/563566641" target="_blank" style="margin: 7px; padding: 0px; vertical-align: baseline; color: #2c9ce9; text-decoration: none; cursor: pointer; background: transparent;">Jerard Fagerberg - City Pages</a></div>
+                  <br>
+                  <div class="page_object_press_item" style=" margin: 7px; padding: 0px 0px 20px; border: 0px; outline: 0px; font-size: 14px; vertical-align: baseline; color: #333333; font-family: Roboto, Helvetica, Arial, sans-serif; line-height: 18px; background: transparent;">
+                  <p style="margin: 0px; padding: 0px; border: 0px; outline: 0px; vertical-align: baseline; font-weight: bold; background: transparent;">&ldquo;&hellip; you give a more intimate experience to the fans&rdquo;</p>
+                  <div class="press_item_author" style="margin: 7px; padding: 0px 0px 0px 20px; border: 0px; outline: 0px; vertical-align: baseline; font-style: italic; background: transparent;"><a href="http://www.appmasters.co/the-band-famous/" target="_blank" style="margin: 0px; padding: 0px; vertical-align: baseline; color: #2c9ce9; text-decoration: none; cursor: pointer; background: transparent;">Steve Young, Lakshmi Parvathy - App Masters</a></div>
                   </div>
                   <div class="page_object_press_item" style="margin: 7px; padding: 0px 0px 20px; border: 0px; outline: 0px; font-size: 14px; vertical-align: baseline; color: #333333; font-family: Roboto, Helvetica, Arial, sans-serif; line-height: 18px; background: transparent;">
                   <p style="margin: 0px; padding: 0px; border: 0px; outline: 0px; vertical-align: baseline; font-weight: bold; background: transparent;">&ldquo;Their art is now gaining traction nationwide&hellip;This spring, TBF was on the Tom Green Show and other L.A.-based podcasts, following the fall Android release of their album, Last Words. Their second album, Awakening, is being released soon.&rdquo;</p>

diff --git a/news.html b/news.html
@@ -60,6 +60,7 @@
   <li><a href="halloffame.html">HALL OF FAME</a></li>
   <li><a href="sponsors.html">SPONSORS</a></li>
   <li><a href="testimonials.html">TESTIMONIALS</a></li>
+  <li><a href="#latest">NEWS</a></li>
   <li><a href="radio.html" title="Listen Now" target="popup" onclick="window.open('radio.html','popup','width=700,height=700'); return false;" class="ui-btn ui-btn-inline ui-corner-all"><img src="img/tbfradio.png" style="height: 72px; width: 72px; margin:0;" alt="TBF Radio"/></a></li>
   <li class="icon">
     <a href="javascript:void(0);" onclick="myFunction()">&#9776;</a>
@@ -196,7 +197,7 @@
 
 
   
-    <center><img src="img/tbf_halloffame.png" alt="The Band Famous®" style="width: 90%; height: auto; margin-bottom: -2px;" title="The Band Famous®"/></center>
+    <center id="latest"><img src="img/tbf_halloffame.png" alt="The Band Famous®" style="width: 90%; height: auto; margin-bottom: -2px;" title="The Band Famous®"/></center>
     <br>
 
     <div id="wrapper">
